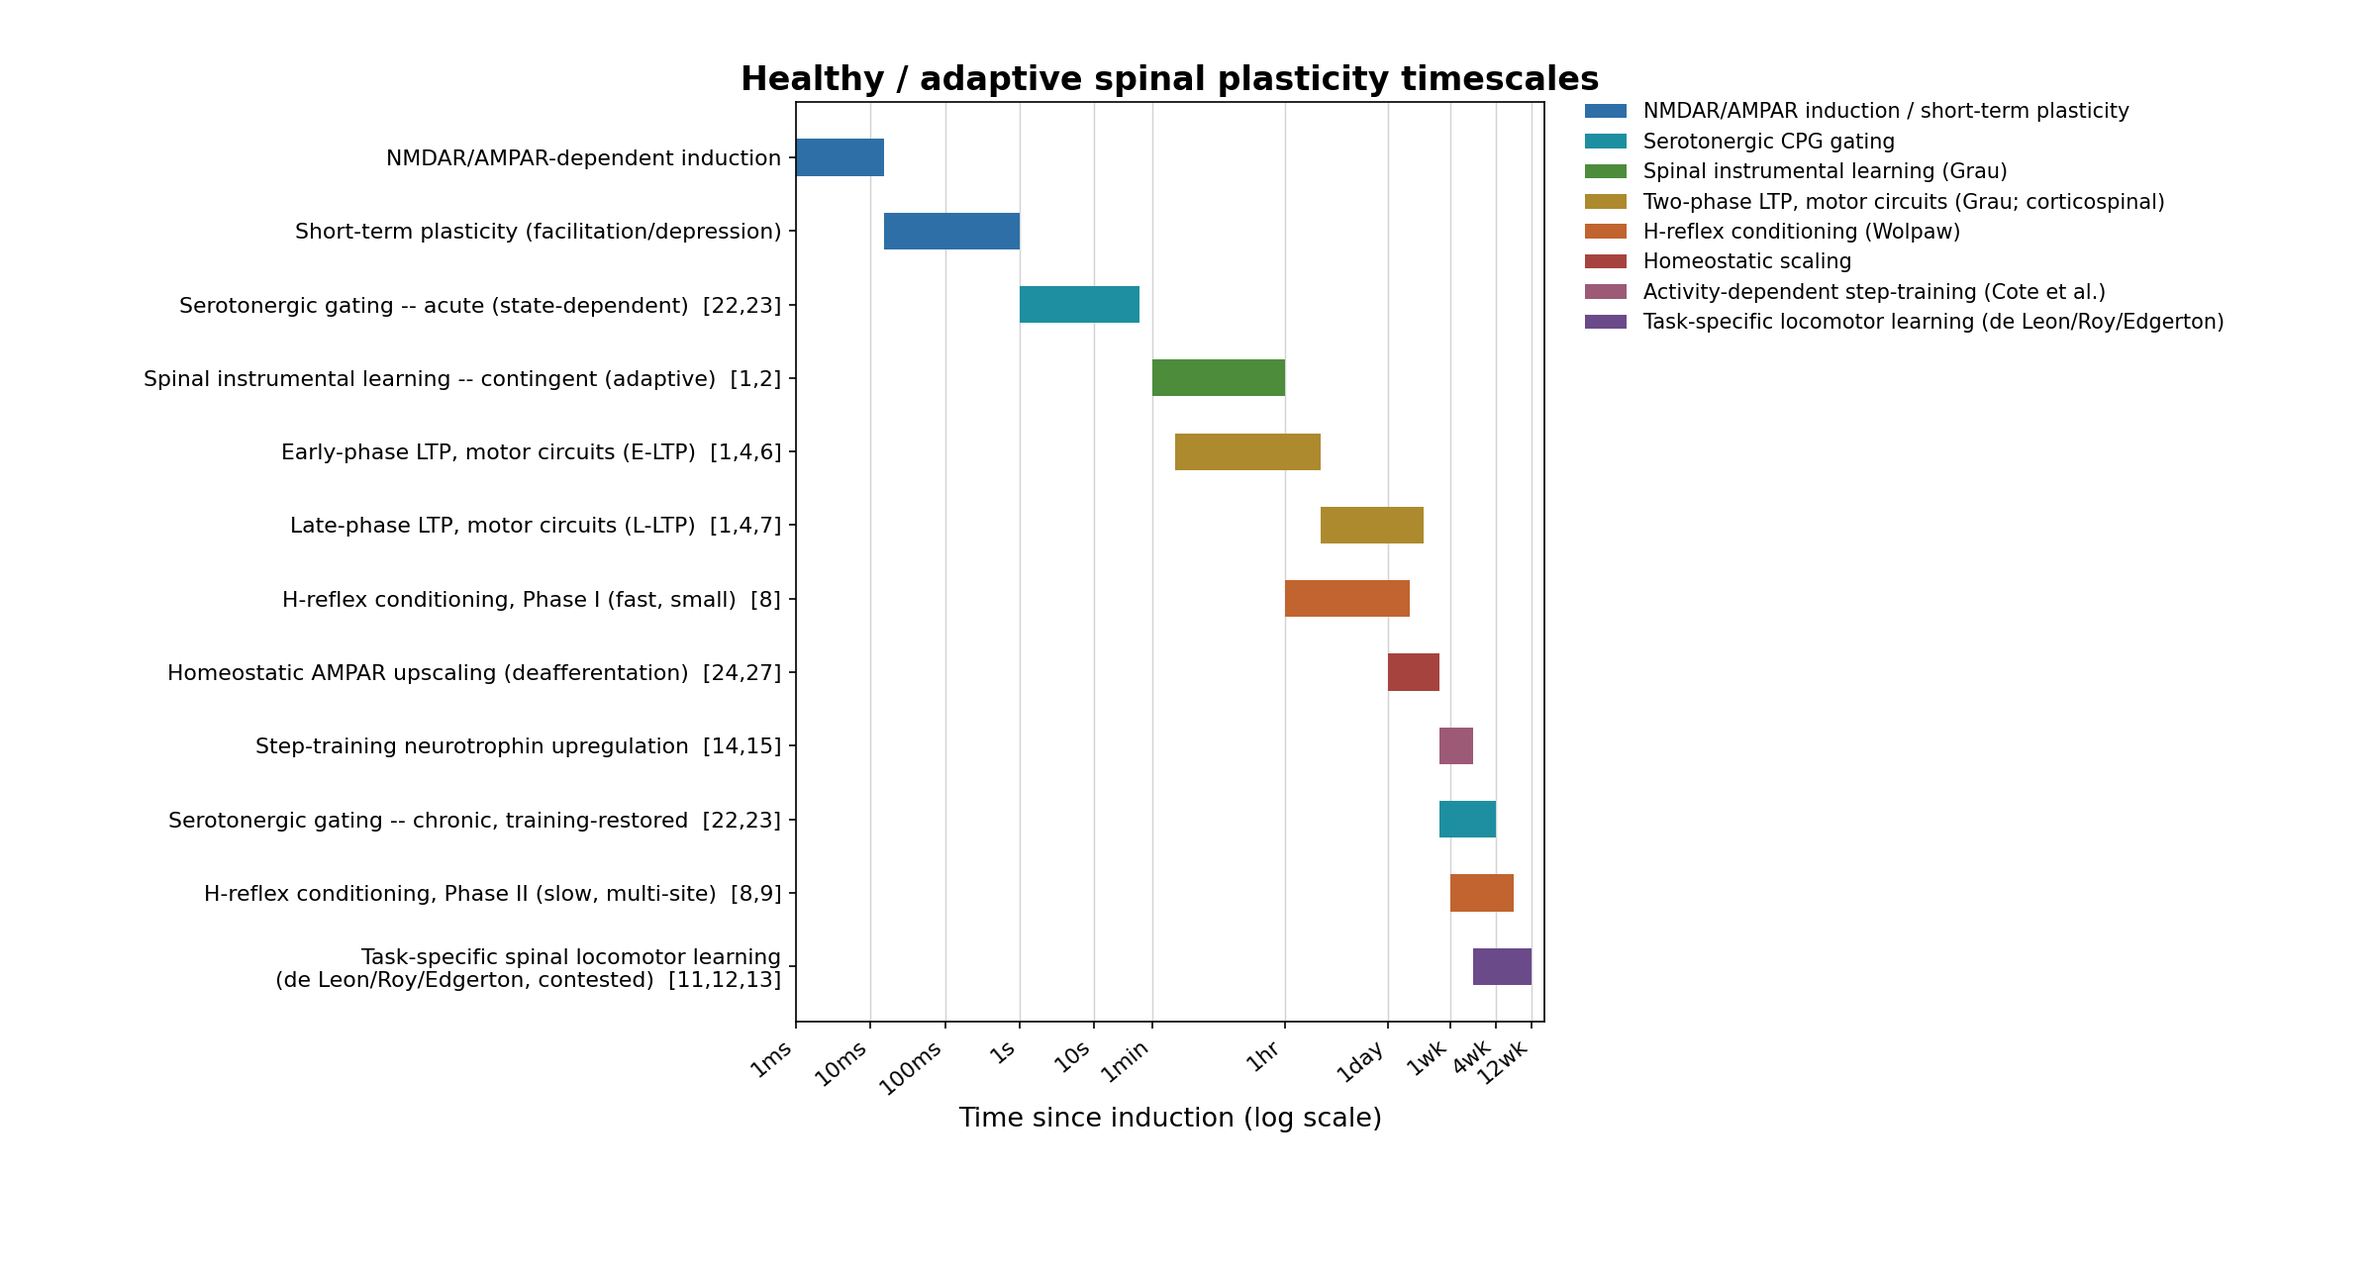
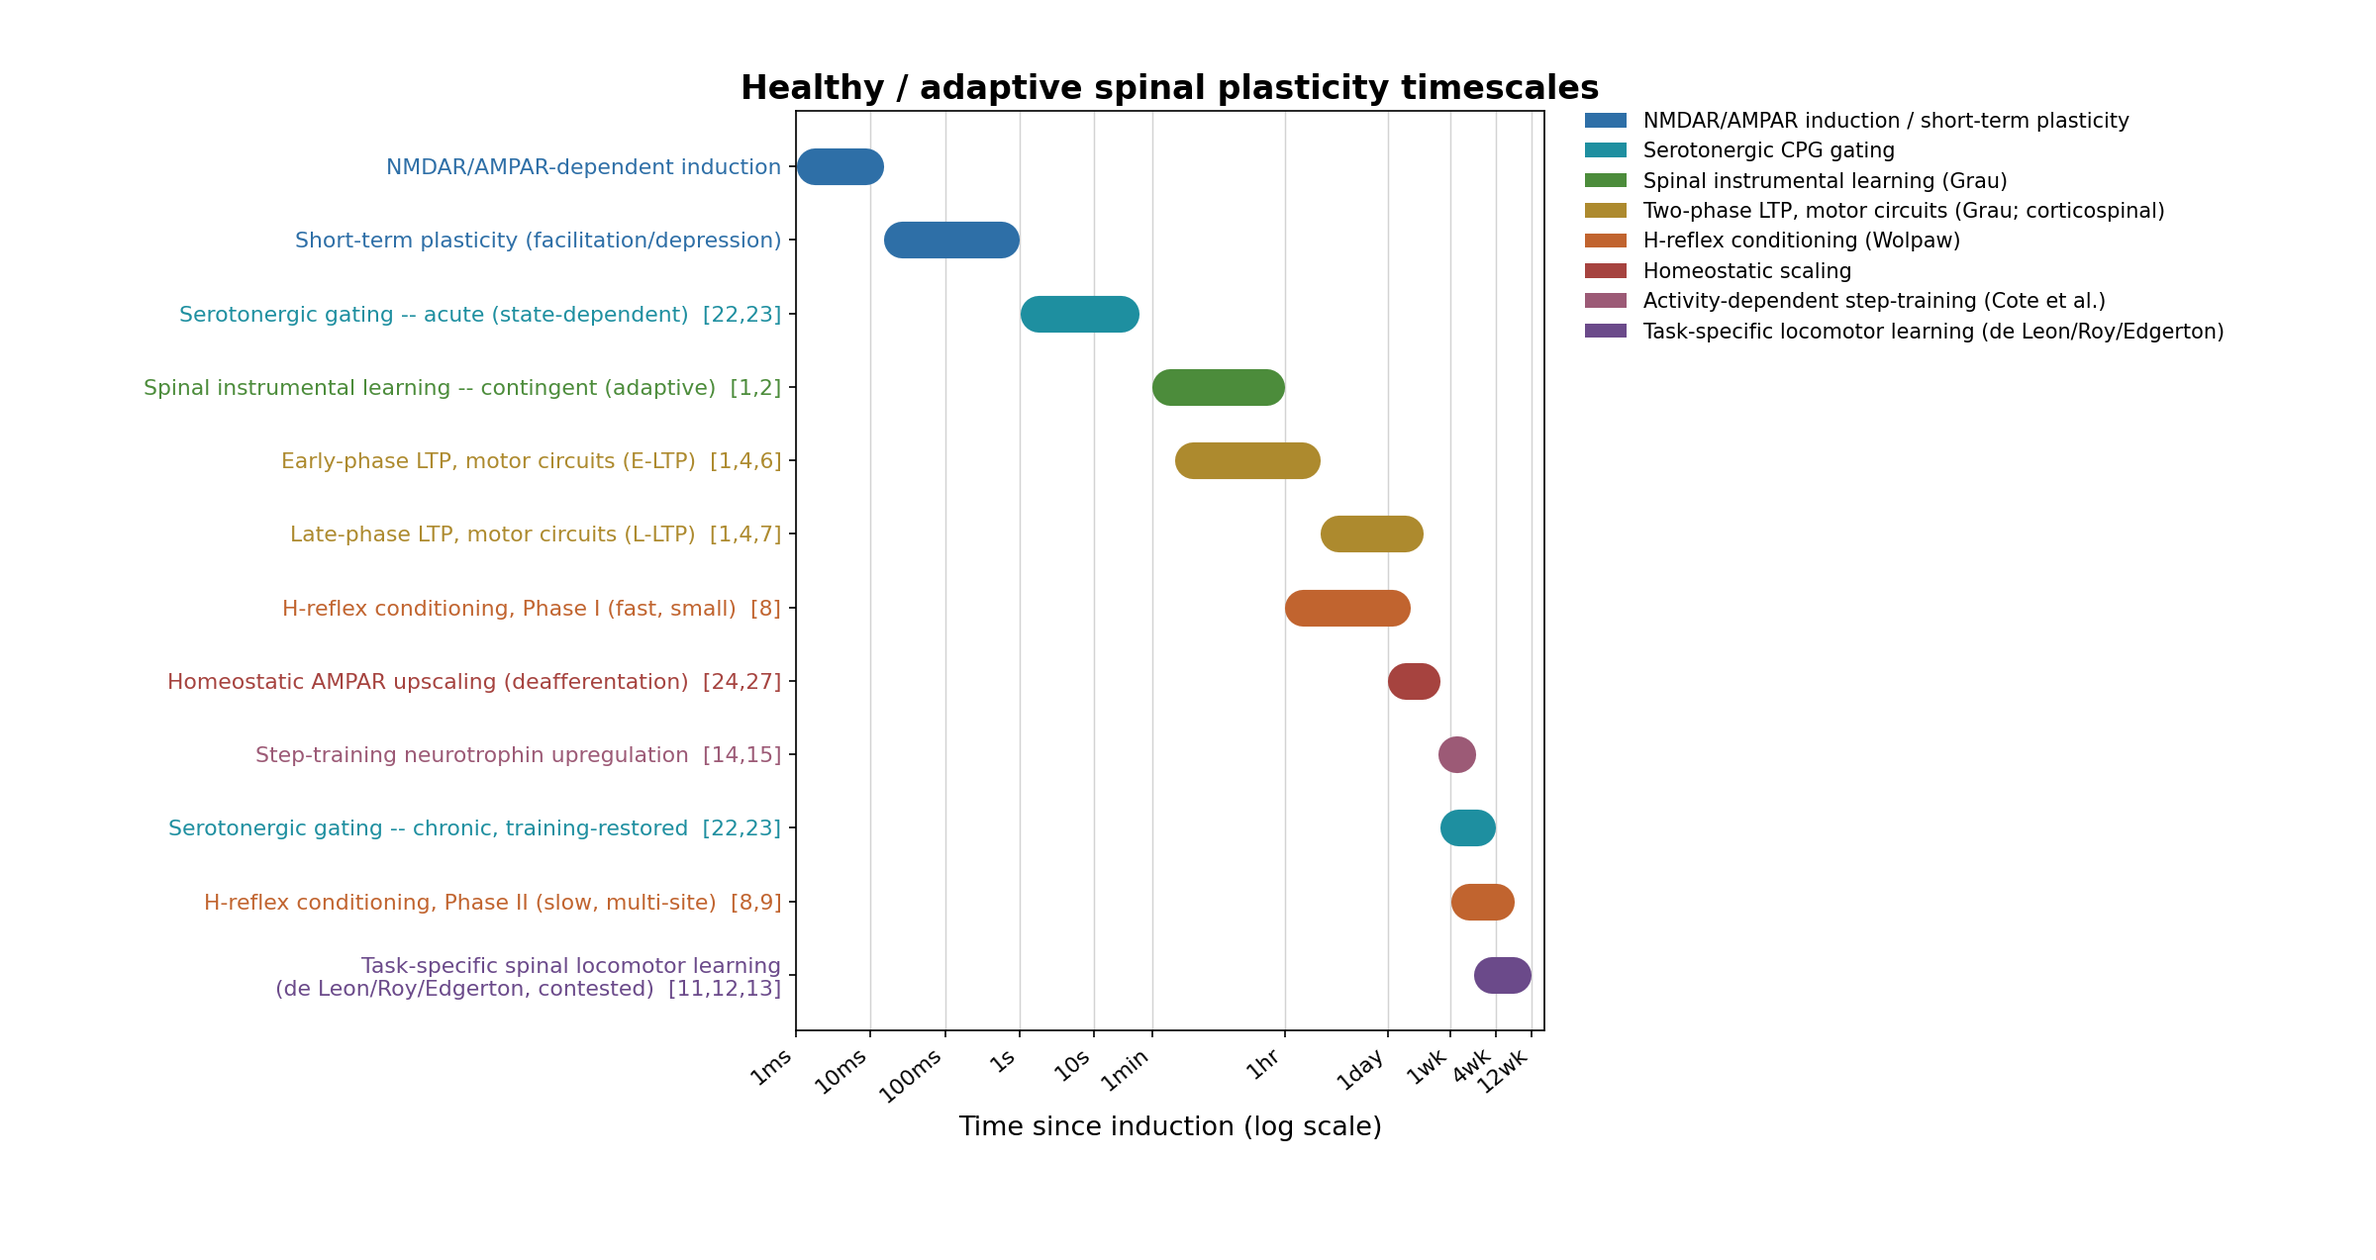
Adopt capsule bars and colour-matched row labels in Fig 1a/1b
Carries over the remaining two style elements from tinyHippo's
timescale_axis.png: round-capped (capsule) bars and row labels tinted to
match their own bar.

Bars are drawn as round-capped line segments rather than rectangles, since a
FancyBbox corner radius would be distorted by the log x-axis. Two things that
needed handling:

- A round cap extends half a linewidth past each endpoint in display space,
  which on a log axis would lengthen every bar by a position-dependent,
  invisible amount. Each segment is therefore shrunk by the cap radius at both
  ends, so the capsule's outer extent still marks the true onset and duration.
- A bar narrower than one cap diameter collapses to a zero-length path, which
  matplotlib does not render -- the step-training row silently disappeared on
  the first attempt. Such bars now keep a half-pixel stub, so they draw at the
  cap-width floor and are slightly overstated; the caption says so.

Also fixed a proportion bug this surfaced: bar thickness was a fraction of row
spacing, so Fig 1b's three rows produced bars twice as fat as Fig 1a's twelve,
despite the caption claiming the two are directly comparable. Row pitch, bar
thickness and axis width are now fixed in absolute units, and figure height is
derived from row count, so the two figures are a genuine matched pair.

diff --git a/scripts/make_spinal_timescale_figs.py b/scripts/make_spinal_timescale_figs.py
@@ -1,58 +1,117 @@
+#!/usr/bin/env python3
+"""Generate Fig. 1a / Fig. 1b for spinal_plasticity_as_learning_spec.md.
+
+Style follows tinyHippo's timescale_axis.png: a muted fast->slow hue ramp,
+capsule (round-capped) bars, and row labels coloured to match their bar.
+
+Run from the repo root:  python3 scripts/make_spinal_timescale_figs.py
+"""
 import matplotlib
 matplotlib.use("Agg")
 import matplotlib.pyplot as plt
 import matplotlib.patches as mpatches
 
-OUT = "/Users/maxtalanov/Projects/memCPG/tinyCPG"
+OUT = "."
 
-# Shared color-by-mechanism-family scheme, consistent ACROSS both figures:
-# the LTP family ("ltp") deliberately uses the same brown in Fig 1a and Fig 1b,
-# because the whole point is that it is one mechanism appearing in both states.
+# Palette sampled pixel-by-pixel from tinyHippo's timescale_axis.png: a muted
+# fast->slow hue ramp. Seven values are exact; "cote" is the one added tone
+# (dusty mauve), matched to the same saturation/lightness band because this
+# figure carries one more mechanism family than the reference had rows.
+# One colour per family, shared across Fig 1a and Fig 1b -- the reference does
+# the same thing (its rows 5 and 6 share #C1642F).
 colors = {
-    # Palette taken from tinyHippo's timescale_axis.png: a muted fast->slow hue
-    # ramp (blue -> teal -> green -> olive -> orange -> brick -> purple).
-    # Six values are sampled exactly from that figure; "cote" is the one added
-    # tone (dusty mauve), matched to the same saturation/lightness band because
-    # this figure has one more mechanism family than the reference had rows.
-    # One colour per family, shared across Fig 1a and Fig 1b -- the reference
-    # does the same thing (its rows 5 and 6 share #C1642F).
-    "induction":    "#2E6FA7",  # blue     - NMDAR/AMPAR induction + STP
-    "serotonergic": "#1E8FA0",  # teal     - serotonergic CPG gating
-    "grau":         "#4C8C3B",  # green    - spinal instrumental learning
-    "ltp":          "#AD8A2E",  # olive    - two-phase LTP, motor circuits
-    "wolpaw":       "#C1642F",  # orange   - H-reflex conditioning
-    "homeostatic":  "#A6433F",  # brick    - homeostatic scaling
-    "cote":         "#9C5A76",  # mauve    - activity-dependent step-training
-    "tasklearn":    "#6B4A8A",  # purple   - task-specific locomotor learning
+    "induction":    "#2E6FA7",  # blue   - NMDAR/AMPAR induction + STP
+    "serotonergic": "#1E8FA0",  # teal   - serotonergic CPG gating
+    "grau":         "#4C8C3B",  # green  - spinal instrumental learning
+    "ltp":          "#AD8A2E",  # olive  - two-phase LTP, motor circuits
+    "wolpaw":       "#C1642F",  # orange - H-reflex conditioning
+    "homeostatic":  "#A6433F",  # brick  - homeostatic scaling
+    "cote":         "#9C5A76",  # mauve  - activity-dependent step-training
+    "tasklearn":    "#6B4A8A",  # purple - task-specific locomotor learning
 }
 
-MS   = 1
-SEC  = 1000
-MIN  = 60 * SEC
+MS, SEC = 1, 1000
+MIN = 60 * SEC
 HOUR = 60 * MIN
-DAY  = 24 * HOUR
+DAY = 24 * HOUR
 WEEK = 7 * DAY
 
-def render(rows, legend_keys, title, outfile, hatch=None, xmax=12 * WEEK,
-           ticks=None, tick_labels=None, height=8.0):
-    fig = plt.figure(figsize=(16, height), dpi=150)
-    ax = fig.add_axes([0.335, 0.20, 0.315, 0.72])
+TICKS = [1, 10, 100, SEC, 10 * SEC, MIN, HOUR, DAY, WEEK, 4 * WEEK, 12 * WEEK]
+TICK_LABELS = ["1ms", "10ms", "100ms", "1s", "10s", "1min", "1hr", "1day",
+               "1wk", "4wk", "12wk"]
+# Geometry is fixed in ABSOLUTE units so Fig 1a and Fig 1b are a true matched
+# pair: identical row pitch, identical bar thickness and identical axis width,
+# regardless of how many rows each one has.
+ROW_PITCH_IN = 0.495     # vertical distance between rows
+BAR_H = 0.5              # bar thickness as a share of row pitch
+TOP_MARGIN_IN = 0.75     # room for the title
+BOT_MARGIN_IN = 1.55     # room for rotated tick labels + xlabel
+FIG_W_IN = 16.0
+AXES_LEFT_FRAC = 0.335   # label gutter
+AXES_W_FRAC = 0.315
+
+
+def capsule(ax, fig, x0, x1, y, lw_pt, color, zorder=2):
+    """Draw a round-capped bar from x0 to x1.
+
+    A round cap extends half a linewidth *in display space* past each
+    endpoint, which on a log axis would silently lengthen the bar by a
+    position-dependent amount. So shrink the segment by the cap radius at
+    both ends first: the capsule's outer extent then equals the true data
+    range. Degenerates to a dot when the bar is shorter than one cap.
+    """
+    t, inv = ax.transData, ax.transData.inverted()
+    p0, p1 = t.transform((x0, y)), t.transform((x1, y))
+    r = lw_pt / 2.0 * fig.dpi / 72.0
+    avail = p1[0] - p0[0]
+    if avail > 2 * r + 1.0:
+        xa = inv.transform((p0[0] + r, p0[1]))[0]
+        xb = inv.transform((p1[0] - r, p1[1]))[0]
+    else:
+        # Shorter than one cap diameter. Centre a minimal (non-zero) segment:
+        # a zero-length path is not rendered at all, so keep half a pixel on
+        # each side. The drawn capsule is then cap-width regardless, i.e. such
+        # a bar is at the figure's resolution floor and slightly overstated.
+        mid = (p0[0] + p1[0]) / 2.0
+        xa = inv.transform((mid - 0.5, p0[1]))[0]
+        xb = inv.transform((mid + 0.5, p0[1]))[0]
+    ax.plot([xa, xb], [y, y], lw=lw_pt, color=color, solid_capstyle="round",
+            zorder=zorder, clip_on=False)
+    return xa, xb
+
+
+def render(rows, legend_keys, title, outfile, hatch=None, xmax=12 * WEEK):
+    y_span = len(rows) + 0.5
+    axes_h_in = y_span * ROW_PITCH_IN
+    fig_h_in = axes_h_in + TOP_MARGIN_IN + BOT_MARGIN_IN
+    fig = plt.figure(figsize=(FIG_W_IN, fig_h_in), dpi=150)
+    ax = fig.add_axes([AXES_LEFT_FRAC, BOT_MARGIN_IN / fig_h_in,
+                       AXES_W_FRAC, axes_h_in / fig_h_in])
 
     y_positions = list(range(len(rows)))[::-1]
-    for (label, start, end, key), y in zip(rows, y_positions):
-        ax.barh(y, width=(end - start), left=start, height=0.5,
-                color=colors[key],
-                edgecolor=("white" if hatch else "none"),
-                linewidth=(0.8 if hatch else 0), hatch=hatch)
-
     ax.set_yticks(y_positions)
     ax.set_yticklabels([r[0] for r in rows], fontsize=10.5)
     ax.set_ylim(-0.75, len(rows) - 0.25)
-
     ax.set_xscale("log")
-    ax.set_xticks(ticks)
-    ax.set_xticklabels(tick_labels, rotation=40, ha="right", fontsize=10.5)
+    ax.set_xticks(TICKS)
+    ax.set_xticklabels(TICK_LABELS, rotation=40, ha="right", fontsize=10.5)
     ax.set_xlim(1, xmax * 1.5)
+
+    # absolute bar thickness -> identical in both figures
+    lw_pt = BAR_H * ROW_PITCH_IN * 72.0
+
+    for (label, start, end, key), y in zip(rows, y_positions):
+        xa, xb = capsule(ax, fig, start, end, y, lw_pt, colors[key], zorder=3)
+        if hatch and xb > xa:
+            # hatch only the span between the cap centres, so the rounded ends
+            # stay solid and nothing spills past the capsule outline
+            ax.barh(y, width=(xb - xa), left=xa, height=BAR_H,
+                    facecolor="none", edgecolor="white", hatch=hatch,
+                    linewidth=0, zorder=4)
+
+    # colour each row label to match its bar, as the reference figure does
+    for lbl, row in zip(ax.get_yticklabels(), rows):
+        lbl.set_color(colors[row[3]])
 
     ax.set_xlabel("Time since induction (log scale)", fontsize=13)
     ax.set_title(title, fontsize=16, fontweight="bold")
@@ -69,10 +128,6 @@ def render(rows, legend_keys, title, outfile, hatch=None, xmax=12 * WEEK,
     print("wrote", outfile)
 
 
-TICKS = [1, 10, 100, SEC, 10 * SEC, MIN, HOUR, DAY, WEEK, 4 * WEEK, 12 * WEEK]
-TICK_LABELS = ["1ms", "10ms", "100ms", "1s", "10s", "1min", "1hr", "1day",
-               "1wk", "4wk", "12wk"]
-
 healthy_rows = [
     ("NMDAR/AMPAR-dependent induction", 1, 15, "induction"),
     ("Short-term plasticity (facilitation/depression)", 15, SEC, "induction"),
@@ -88,8 +143,7 @@ healthy_rows = [
     ("Task-specific spinal locomotor learning\n(de Leon/Roy/Edgerton, contested)  [11,12,13]", 14 * DAY, 84 * DAY, "tasklearn"),
 ]
 
-# Legend follows the fast->slow ramp, i.e. order of first appearance in the
-# chart, matching how the reference figure orders its own colours.
+# Legend follows the fast->slow ramp, i.e. order of first appearance.
 healthy_legend = [
     ("induction", "NMDAR/AMPAR induction / short-term plasticity"),
     ("serotonergic", "Serotonergic CPG gating"),
@@ -115,10 +169,8 @@ pathological_legend = [
 
 render(healthy_rows, healthy_legend,
        "Healthy / adaptive spinal plasticity timescales",
-       "spinal_timescale_healthy.png", hatch=None,
-       ticks=TICKS, tick_labels=TICK_LABELS, height=8.6)
+       "spinal_timescale_healthy.png", hatch=None)
 
 render(pathological_rows, pathological_legend,
        "Pathological motor-circuit plasticity timescales (after SCI)",
-       "spinal_timescale_pathological.png", hatch="//",
-       ticks=TICKS, tick_labels=TICK_LABELS, height=4.6)
+       "spinal_timescale_pathological.png", hatch="//")

diff --git a/spinal_plasticity_as_learning_spec.md b/spinal_plasticity_as_learning_spec.md
@@ -44,9 +44,9 @@ columns, axis and scale so the two are directly comparable.
 
 ### 1.1 Healthy / adaptive processes
 
-![Twelve healthy motor-circuit plasticity processes on one logarithmic time axis from 1ms to twelve weeks, one bar per Table 1a row, each labelled with its reference numbers, sorted fastest-onset-first top to bottom and colored by mechanism family along a fast-to-slow hue ramp — blue for NMDAR/AMPAR induction and short-term plasticity, teal for serotonergic CPG gating, green for Grau's contingent spinal instrumental learning, olive for the two-phase E-LTP/L-LTP cascade in motor circuits, orange for Wolpaw's two-phase H-reflex conditioning, brick red for homeostatic AMPAR upscaling, mauve for Côté's activity-dependent step-training, and purple for de Leon/Roy/Edgerton's contested task-specific spinal locomotor learning — bar position marks onset, length marks characteristic duration.](spinal_timescale_healthy.png)
+![Twelve healthy motor-circuit plasticity processes on one logarithmic time axis from 1ms to twelve weeks, one round-capped bar per Table 1a row, each labelled with its reference numbers in a colour matching its own bar, sorted fastest-onset-first top to bottom and colored by mechanism family along a fast-to-slow hue ramp — blue for NMDAR/AMPAR induction and short-term plasticity, teal for serotonergic CPG gating, green for Grau's contingent spinal instrumental learning, olive for the two-phase E-LTP/L-LTP cascade in motor circuits, orange for Wolpaw's two-phase H-reflex conditioning, brick red for homeostatic AMPAR upscaling, mauve for Côté's activity-dependent step-training, and purple for de Leon/Roy/Edgerton's contested task-specific spinal locomotor learning — bar position marks onset, length marks characteristic duration.](spinal_timescale_healthy.png)
 
-*Fig. 1a — The twelve rows of Table 1a, one bar each, in the same order, sorted by onset: baseline physiology (induction, short-term plasticity, acute serotonergic gating) plus every motor mechanism whose documented outcome is functional preservation or recovery. Bracketed numbers on each bar are the same reference keys as Table 1a's Refs column. The two olive bars are the two-phase LTP cascade in its motor instantiation; the same cascade on the nociceptive pathway is §3, kept out of this chart on purpose. Palette follows the fast-to-slow hue ramp used by the companion hippocampal timescale figure, one colour per mechanism family so a family reads identically in Fig. 1b.*
+*Fig. 1a — The twelve rows of Table 1a, one bar each, in the same order, sorted by onset: baseline physiology (induction, short-term plasticity, acute serotonergic gating) plus every motor mechanism whose documented outcome is functional preservation or recovery. Bracketed numbers on each bar are the same reference keys as Table 1a's Refs column. The two olive bars are the two-phase LTP cascade in its motor instantiation; the same cascade on the nociceptive pathway is §3, kept out of this chart on purpose. Palette, capsule bars and colour-matched row labels follow the companion hippocampal timescale figure; one colour per mechanism family, so a family reads identically in Fig. 1b. Bars are drawn with round caps shortened by the cap radius, so a bar's outer extent still marks its true onset and duration; a bar whose span is narrower than one cap (here, step-training) is drawn at that floor and is therefore slightly overstated.*
 
 | Process | Refs | What it is | Time constant | Site / pathway | What it constrains for a spiking-network model |
 |---|---|---|---|---|---|
@@ -67,9 +67,9 @@ columns, axis and scale so the two are directly comparable.
 
 ### 1.2 Pathological motor-circuit processes (after spinal cord injury)
 
-![Three pathological motor-circuit plasticity processes on the same logarithmic time axis as Fig. 1a, one bar per Table 1b row with its reference numbers, hatched to distinguish them from the healthy set and colored by the same mechanism-family scheme — green for Grau's non-contingent maladaptive suppression, brick red for KCC2-loss-driven homeostatic downscaling failure, and teal for untreated chronic serotonergic dysregulation.](spinal_timescale_pathological.png)
+![Three pathological motor-circuit plasticity processes on the same logarithmic time axis as Fig. 1a, one round-capped bar per Table 1b row with its reference numbers, labels colour-matched to their bars, hatched to distinguish them from the healthy set and colored by the same mechanism-family scheme — green for Grau's non-contingent maladaptive suppression, brick red for KCC2-loss-driven homeostatic downscaling failure, and teal for untreated chronic serotonergic dysregulation.](spinal_timescale_pathological.png)
 
-*Fig. 1b — The three rows of Table 1b, one bar each, in the same order, on the same axis, scale, color scheme and reference keys as Fig. 1a, so the two are directly comparable but never rendered as one mixed chart. Every row here has a counterpart in Fig. 1a in the same color: the pathology is a different *outcome* of the same machinery, not an extra mechanism. Chronic pain is absent by design — it is a nociceptive-pathway outcome and lives in §3.*
+*Fig. 1b — The three rows of Table 1b, one bar each, in the same order, on the same axis, scale, color scheme and reference keys as Fig. 1a — and at identical row pitch and bar thickness, so the two are directly comparable but never rendered as one mixed chart. Every row here has a counterpart in Fig. 1a in the same color: the pathology is a different *outcome* of the same machinery, not an extra mechanism. Chronic pain is absent by design — it is a nociceptive-pathway outcome and lives in §3.*
 
 | Process | Refs | What it is | Time constant | Site / pathway | What it constrains for a spiking-network model |
 |---|---|---|---|---|---|
